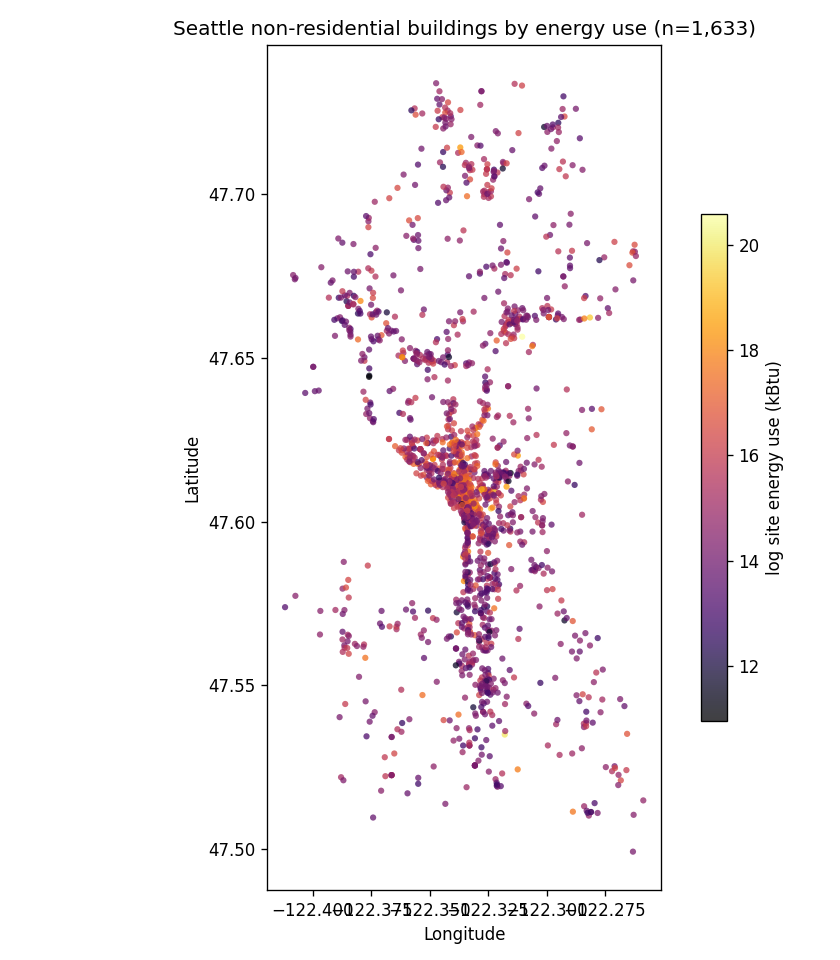
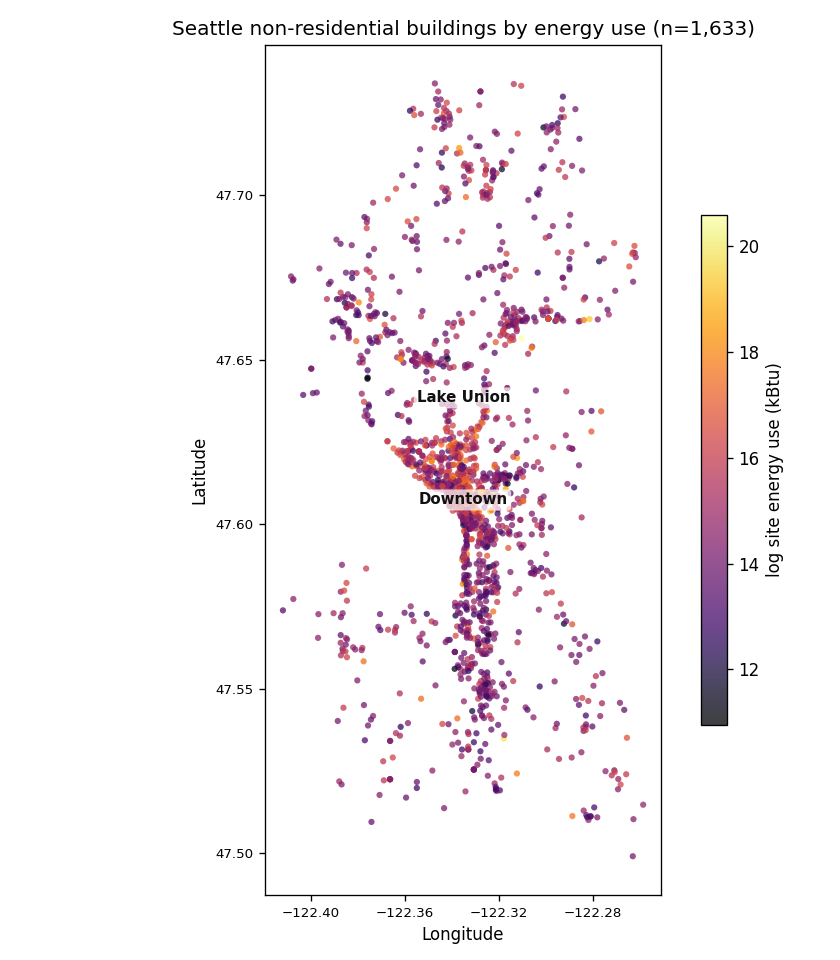
feat: annotated figures (R2 labels, neighbourhood map) + SHAP/map in README + RMSE table + portfolio figure generator

diff --git a/docs/make_portfolio_figures.py b/docs/make_portfolio_figures.py
@@ -1,0 +1,110 @@
+"""Portfolio-styled figures (dark AnastatsIA charter) for the P4 website cards.
+
+Separate from the reproducible pipeline: the *pretty* versions (dark background,
+azure accent) for the portfolio gallery, not the analytical outputs.
+
+    python docs/make_portfolio_figures.py --data data/2016_Building_Energy_Benchmarking.csv \
+        --out ../../../../05_PROJETS/04_PORTFOLIO/public/projects
+"""
+from __future__ import annotations
+
+import argparse
+import sys
+from pathlib import Path
+
+import matplotlib
+
+matplotlib.use("Agg")
+import matplotlib.pyplot as plt
+import numpy as np
+import pandas as pd
+from sklearn.ensemble import GradientBoostingRegressor
+
+sys.path.insert(0, str(Path(__file__).resolve().parents[1] / "src"))
+import features as F  # noqa: E402
+
+BG = "#0b1424"
+PANEL = "#0e1b2e"
+AZURE = "#38bdf8"
+INK = "#eaf4ff"
+MUTE = "#9fc7e8"
+
+
+def _style(ax, fig):
+    fig.patch.set_facecolor(BG)
+    ax.set_facecolor(PANEL)
+    for s in ax.spines.values():
+        s.set_color("#1e3a5f")
+    ax.tick_params(colors=MUTE, labelsize=8)
+    ax.yaxis.label.set_color(MUTE)
+    ax.xaxis.label.set_color(MUTE)
+    ax.title.set_color(INK)
+
+
+def make_map(df: pd.DataFrame, out: Path):
+    d = df[["Latitude", "Longitude", F.TARGET_ENERGY, "Neighborhood"]].copy()
+    for c in ["Latitude", "Longitude", F.TARGET_ENERGY]:
+        d[c] = pd.to_numeric(d[c], errors="coerce")
+    d = d[(d[F.TARGET_ENERGY] > 0) & d["Latitude"].between(47.4, 47.8)
+          & d["Longitude"].between(-122.5, -122.2)].dropna(subset=["Latitude", "Longitude"])
+    d["log_energy"] = np.log1p(d[F.TARGET_ENERGY])
+
+    fig, ax = plt.subplots(figsize=(7, 8))
+    _style(ax, fig)
+    sc = ax.scatter(d["Longitude"], d["Latitude"], c=d["log_energy"],
+                    cmap="inferno", s=15, alpha=0.8, edgecolor="none")
+    for name, lat, lng in [("Downtown", 47.606, -122.335), ("Lake Union", 47.637, -122.335)]:
+        ax.annotate(name, (lng, lat), color=INK, fontsize=10, fontweight="bold", ha="center",
+                    bbox=dict(boxstyle="round,pad=0.25", fc="#0b1424", ec=AZURE, alpha=0.8))
+    ax.set_title("Seattle buildings by energy use\n— the Downtown / Lake Union corridor", fontsize=12)
+    ax.set_xlabel("Longitude")
+    ax.set_ylabel("Latitude")
+    ax.set_aspect(1.4)
+    ax.xaxis.set_major_locator(plt.MaxNLocator(5))
+    ax.yaxis.set_major_locator(plt.MaxNLocator(6))
+    cb = fig.colorbar(sc, ax=ax, label="log site energy use (kBtu)", shrink=0.55)
+    cb.ax.yaxis.label.set_color(MUTE)
+    cb.ax.tick_params(colors=MUTE)
+    fig.tight_layout()
+    fig.savefig(out / "energy-prediction-map.png", dpi=125, facecolor=BG)
+    plt.close(fig)
+
+
+def make_shap_bar(df: pd.DataFrame, out: Path):
+    """Dark-charter SHAP importance as a clean bar (mean |SHAP|)."""
+    try:
+        import shap
+    except ImportError:
+        return
+    X, y = F.prepare_xy(df, F.TARGET_ENERGY)
+    gb = GradientBoostingRegressor(random_state=10).fit(X, y)
+    sv = shap.TreeExplainer(gb).shap_values(X)
+    imp = pd.Series(np.abs(sv).mean(axis=0), index=X.columns).sort_values()
+
+    fig, ax = plt.subplots(figsize=(8, 4.5))
+    _style(ax, fig)
+    ax.barh(imp.index, imp.values, color=AZURE)
+    for i, v in enumerate(imp.values):
+        ax.text(v + imp.max() * 0.01, i, f"{v:.2f}", va="center", color=MUTE, fontsize=9)
+    ax.set_xlabel("mean |SHAP| — impact on predicted energy use")
+    ax.set_title("What drives the prediction: building size dominates", fontsize=12)
+    ax.margins(x=0.12)
+    fig.tight_layout()
+    fig.savefig(out / "energy-prediction-shap.png", dpi=125, facecolor=BG)
+    plt.close(fig)
+
+
+def main():
+    ap = argparse.ArgumentParser()
+    ap.add_argument("--data", type=Path, required=True)
+    ap.add_argument("--out", type=Path, required=True)
+    args = ap.parse_args()
+    args.out.mkdir(parents=True, exist_ok=True)
+    df = F.filter_non_residential(pd.read_csv(args.data))
+    make_map(df, args.out)
+    make_shap_bar(df, args.out)
+    print(f"portfolio figures -> {args.out}")
+
+
+if __name__ == "__main__":
+    main()

diff --git a/src/run_models.py b/src/run_models.py
@@ -68,9 +68,15 @@ def fig_scores(scores: dict, target_name: str, out: Path) -> None:
     fig, ax = plt.subplots(figsize=(8, 4))
     bars = ax.barh(names, r2, color="#36c")
     bars[int(np.argmax(r2))].set_color("#2a7")
-    ax.set_xlabel("5-fold CV R² (log target)")
-    ax.set_title(f"{target_name}: model comparison")
+    # annotate each bar with its R² value
+    for bar, v in zip(bars, r2, strict=False):
+        x = v + (0.015 if v >= 0 else -0.015)
+        ax.text(x, bar.get_y() + bar.get_height() / 2, f"{v:.2f}",
+                va="center", ha="left" if v >= 0 else "right", fontsize=9)
+    ax.set_xlabel("5-fold CV R² (log target) — higher is better")
+    ax.set_title(f"{target_name}: model comparison (Gradient Boosting wins)")
     ax.axvline(0, color="k", lw=0.5)
+    ax.margins(x=0.12)
     fig.tight_layout()
     fig.savefig(out / f"models_{target_name.lower().replace(' ', '_')}.png", dpi=110)
     plt.close(fig)
@@ -144,10 +150,18 @@ def fig_map(df: pd.DataFrame, out: Path) -> dict:
     fig, ax = plt.subplots(figsize=(7, 8))
     sc = ax.scatter(d["Longitude"], d["Latitude"], c=d["log_energy"],
                     cmap="inferno", s=14, alpha=0.75, edgecolor="none")
+    # annotate the two high-consumption neighbourhoods the analysis calls out
+    for name, lat, lng in [("Downtown", 47.606, -122.335), ("Lake Union", 47.637, -122.335)]:
+        ax.annotate(name, (lng, lat), color="#111", fontsize=9, fontweight="bold",
+                    ha="center",
+                    bbox=dict(boxstyle="round,pad=0.2", fc="white", ec="none", alpha=0.7))
     ax.set_title(f"Seattle non-residential buildings by energy use (n={len(d):,})")
     ax.set_xlabel("Longitude")
     ax.set_ylabel("Latitude")
     ax.set_aspect(1.4)
+    ax.xaxis.set_major_locator(plt.MaxNLocator(5))
+    ax.yaxis.set_major_locator(plt.MaxNLocator(6))
+    ax.tick_params(labelsize=8)
     fig.colorbar(sc, ax=ax, label="log site energy use (kBtu)", shrink=0.6)
     fig.tight_layout()
     fig.savefig(out / "map_energy_seattle.png", dpi=120)

diff --git a/README.md b/README.md
@@ -46,19 +46,23 @@ flowchart LR
 - Log-transformed both skewed targets.
 - Ran a **5-fold CV model sweep** on CO₂ and on energy use, reporting R² (mean ± std) and RMSE.
 - Ran an **ablation** to measure the marginal value of the ENERGYSTARScore.
+- Explained the winning model with **SHAP** (which features drive the prediction).
+- **Mapped** every building by energy use from its lat/lng to locate consumption.
 
 ## 5. Results
 
 **Model comparison (5-fold CV R² on the log target):**
 
-| Model | CO₂ — R² | Energy — R² |
-|---|--:|--:|
-| Dummy (mean) | −0.33 | −0.56 |
-| Linear | −0.62 | −0.57 |
-| Ridge | −0.62 | −0.57 |
-| Lasso | −0.59 | −0.55 |
-| Random Forest | 0.21 | 0.40 |
-| **Gradient Boosting** | **0.25** | **0.46** |
+| Model | CO₂ — R² | CO₂ — RMSE | Energy — R² | Energy — RMSE |
+|---|--:|--:|--:|--:|
+| Dummy (mean) | −0.33 | 1.49 | −0.56 | 1.37 |
+| Linear | −0.62 | 1.60 | −0.57 | 1.35 |
+| Ridge | −0.62 | 1.60 | −0.57 | 1.35 |
+| Lasso | −0.59 | 1.59 | −0.55 | 1.34 |
+| Random Forest | 0.21 | 1.16 | 0.40 | 0.84 |
+| **Gradient Boosting** | **0.25** | **1.12** | **0.46** | **0.80** |
+
+*(RMSE on the log1p target; lower is better.)*
 
 ![CO₂ model comparison](docs/figures/models_co2_emissions.png)
 ![Energy model comparison](docs/figures/models_energy_use.png)
@@ -111,6 +115,7 @@ A leakage-free regression that predicts Seattle building energy use at **R² 0.4
 - **CO₂ needs the energy mix** (gas/electricity/steam shares) — deliberately excluded here as leakage-adjacent, but a cleaned version could be engineered.
 - **No hyperparameter tuning** in this clean re-run (defaults + light choices); a GridSearch would lift the ensembles a few points.
 - **Single year (2016)** — no temporal validation.
+- **SHAP is computed on the full in-sample fit** — it explains *this* model's behaviour, not out-of-sample generalisation (the R² figures above are the cross-validated numbers).
 
 ## 10. Improvements & TODO Next
 
